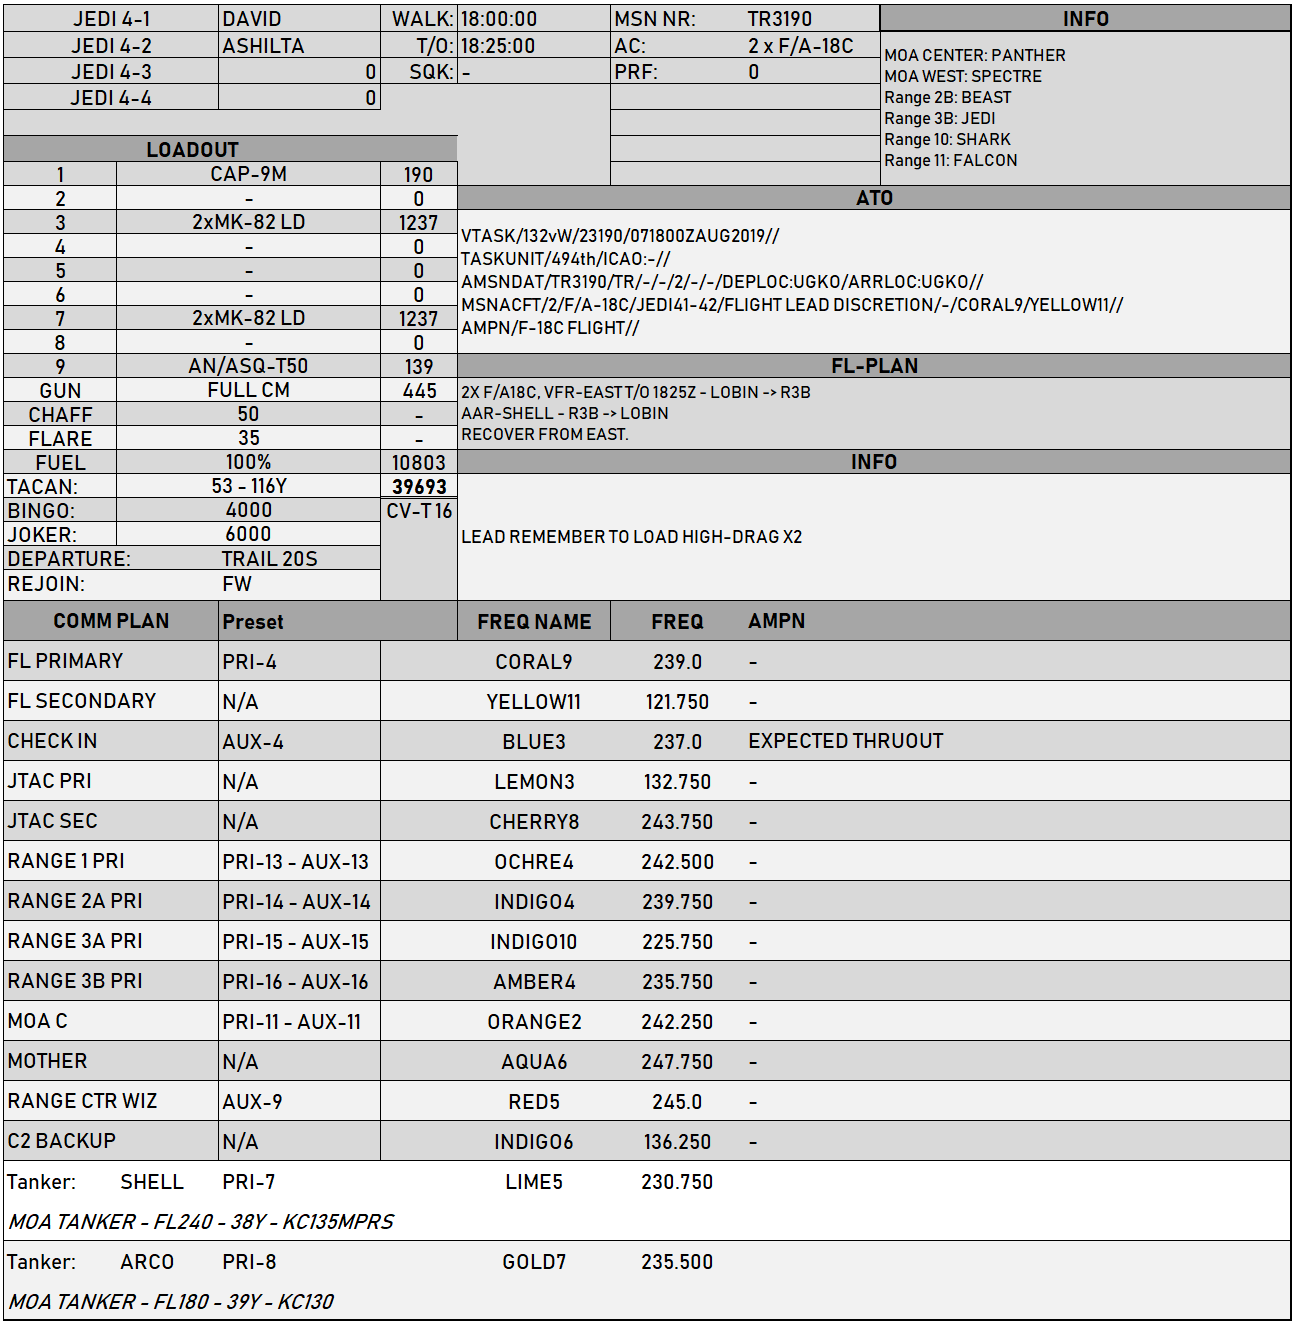
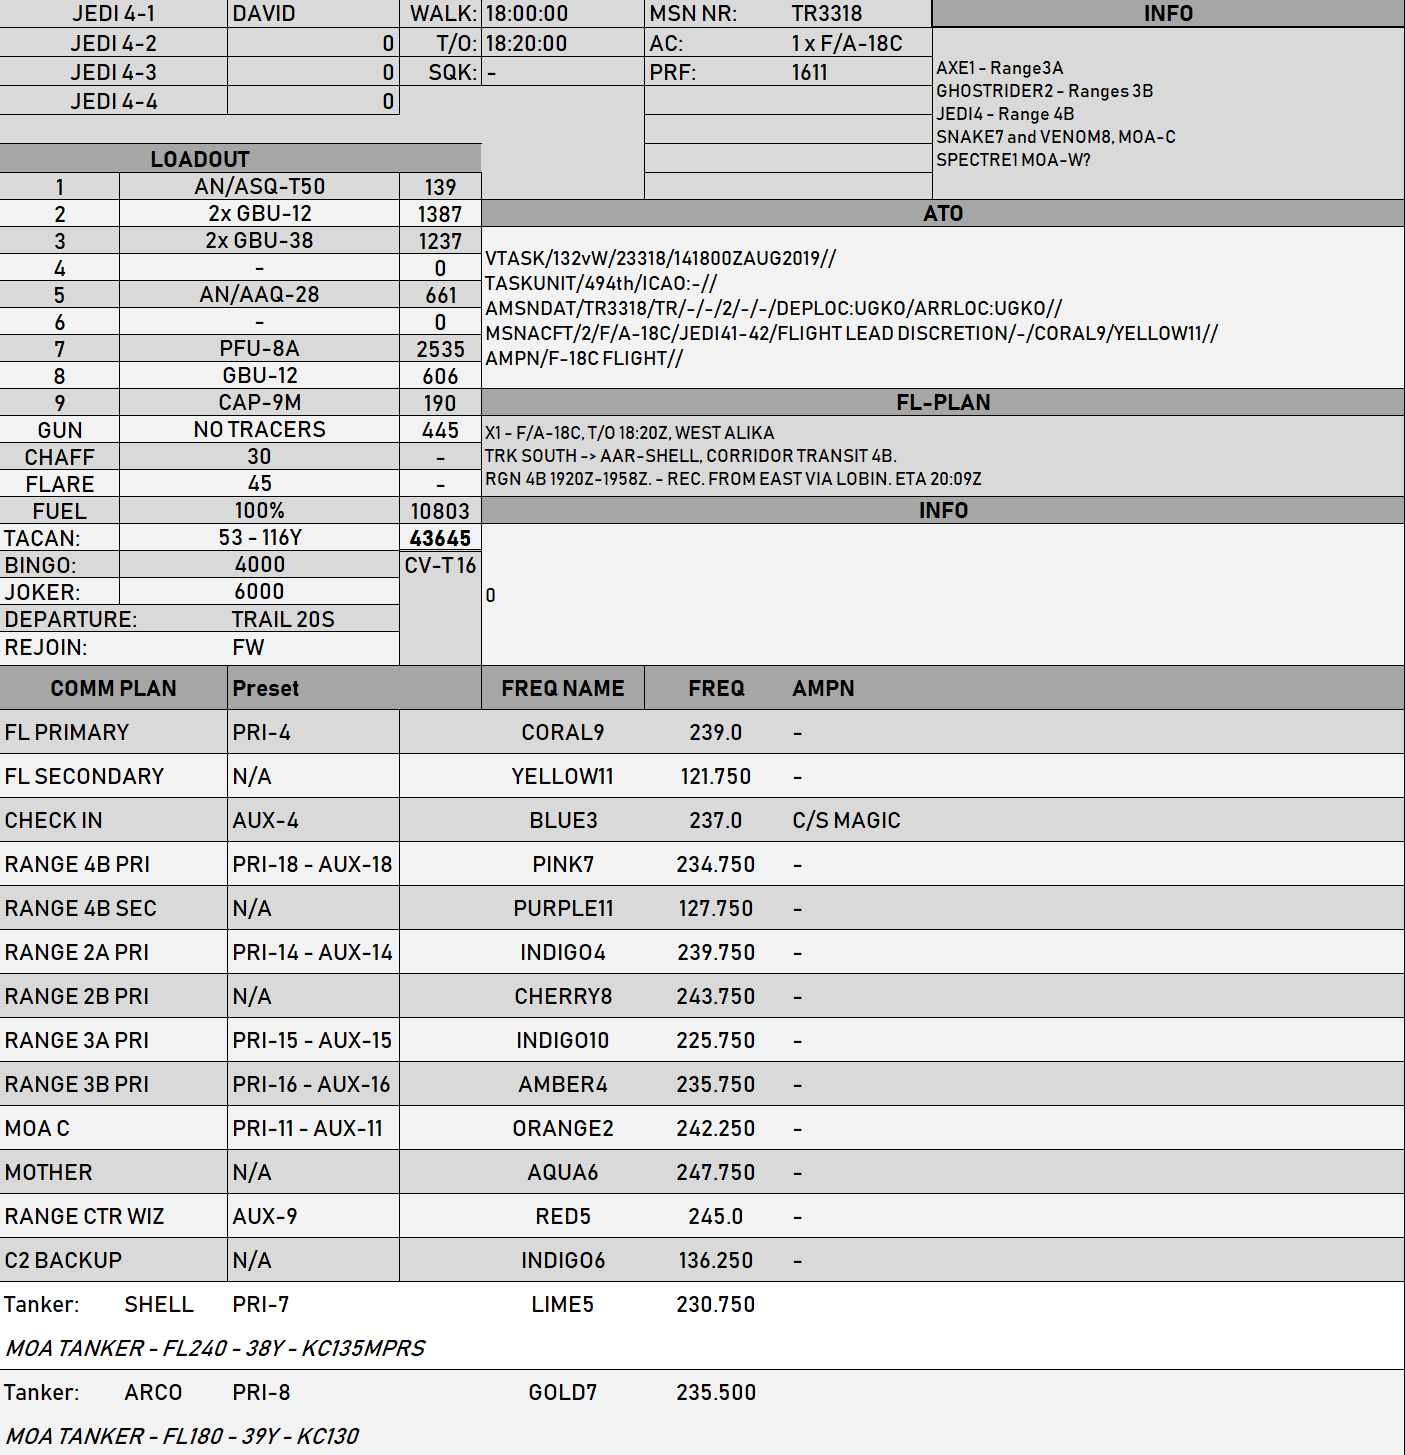
190814 JEDI 4

Changed region(s): [[0.0, 0.0, 1.0, 1.0], [0.3704, 0.9276, 0.5556, 0.9585]]

diff --git a/index.md b/index.md
@@ -2,86 +2,37 @@
 - | - | -
 [CV-OPs](/CVOPS/cvops.md) | [FLIP GULF](https://www.dropbox.com/s/sp91zf63rx0esao/FLIP_GULFR2_EC1.pdf?dl=0) | [FLIP CAUCASUS](https://www.dropbox.com/s/ppiqy9ba7i8h8op/FLIP_CAUR_EC1.pdf?dl=0)
 
-## JEDI 4 - TR3190
+## JEDI 4 - TR3318
 
 Flight Lead: DAVID  
-WM2: ASHILTA  
-
 TACAN:: 53 - 116Y  
 
 ## FLIGHTPLAN
-"2X F/A18C, VFR-EAST T/O 1825Z - LOBIN -> R3B
-AAR-SHELL - R3B -> LOBIN
-RECOVER FROM EAST."
+"X1 - F/A-18C, T/O 18:20Z, WEST ALIKA
+TRK SOUTH -> AAR-SHELL, CORRIDOR TRANSIT 4B.
+RGN 4B 1920Z-1958Z. - REC. FROM EAST VIA LOBIN. ETA 20:09Z"
 
 ## LOADOUT
 
 left | right
 ----- | -----
-S1 - CAP-9M | S9 - AN/ASQ-T50
-S2 - - | S8 - -
-S3 - 2xMK-82 LD | S7 - 2xMK-82 LD
+S1 - AN/ASQ-T50 | S9 - CAP-9M
+S2 - 2x GBU-12 | S8 - GBU-12
+S3 - 2x GBU-38 | S7 - PFU-8A
 S4 - - | S6 - -
-S5 - - | GUN - FULL CM
-CHAFF - 50 | FLARE - 35
-FUEL - 1 | WEIGHT: 39693
+S5 - AN/AAQ-28 | GUN - NO TRACERS
+CHAFF - 30 | FLARE - 45
+FUEL - 1 | WEIGHT: 43645
 
-
-## OBJECTIVE
-
-Objctive 1: Know the different strategic and counterland mission-types:
-(Strike, AI, GAI, SCAR, CAS, FAC(A), CSAR).
-
-Objective 2: Use correct FENCE as per SOP.
-
-Objective 3: Know and respect Targeting Contract: 
-(At no given time must both pilots be heads-down, unless deconflicted and in permissive environment).
-
-Objective 4: Able to give and receive 3-point attack brief.
-
-Objective 5: Know the difference between shooter-shooter and shooter-cover and when they can be used.
-
-Objective 6: Know how to set up a wheel .
-
-Objective 7: Understand the advantages and disadvantages of a popup-attack and be able to execute it.
-
-Objective 8: Able to set up and execute a level, low level attack using retarded bombs.
-
-
-### Lesson content
-This lesson is a special form of self-qualification.
-The lesson must be flown with another MQ pilot (MQ or above). MQ pilot will be Flight lead for trainee.
-Once all objctives are met, you must self-qualify this lesson.
-
-
-This flight should be divided in two parts:
-Part 1: Low threat.
-Focus is to conduct basic A-G tactics in a permissive environment: Recive 3-point attack brief, orbit in a wheel, simple talk-on. This first part is to prepare the trainee to conduct CAS and AR missions with a more dynamic flow.
-
-
-Part 2: High threat.
-The second part focuses on pre-planned attacks in a high threat environment to prepare for Strike, OCA attack and AI missions. The flight need to ingress low level to a IP, continue into the target to conduct coordinated attacks shooter-shooter.
 
 
 ## STEERPOINTS
 
 
 ![MDC1](MDC10.PNG)
-![MDC2](MDC20.PNG)
-![MDC3](MDC30.PNG)
-## TGT ELEV 3612 FT
-
+![MDC1](MDC20.PNG)
+![MDC1](MDC30.PNG)
 ![AO](E10.PNG)
-![ZED1](ZED_40HADB.PNG)
-
-![SATLOW](SATLOW.PNG)
-
-## WINGMAN
-![ZED1](ZED_30LALD.PNG)
-
-## LEAD
-![ZED1](ZED_10LALD.PNG)
-
 
 ## METAR: 
 
@@ -90,16 +41,25 @@ The second part focuses on pre-planned attacks in a high threat environment to p
 
 
 ## COMMS
+#### FL PRIMARY / PRI-4 / CORAL9 / 239.0 / AMPN:-
+#### FL SECONDARY / N/A / YELLOW11 / 121.750 / AMPN:-
+#### CHECK IN / AUX-4 / BLUE3 / 237.0 / AMPN:C/S MAGIC
+#### RANGE 4B PRI / PRI-18 - AUX-18 / PINK7 / 234.750 / AMPN:-
+#### RANGE 4B SEC / N/A / PURPLE11 / 127.750 / AMPN:-
+#### RANGE 2A PRI / PRI-14 - AUX-14 / INDIGO4 / 239.750 / AMPN:-
+#### RANGE 2B PRI / N/A / CHERRY8 / 243.750 / AMPN:-
+#### RANGE 3A PRI / PRI-15 - AUX-15 / INDIGO10 / 225.750 / AMPN:-
+#### RANGE 3B PRI / PRI-16 - AUX-16 / AMBER4 / 235.750 / AMPN:-
+#### MOA C / PRI-11 - AUX-11 / ORANGE2 / 242.250 / AMPN:-
+#### MOTHER / N/A / AQUA6 / 247.750 / AMPN:-
+#### RANGE CTR WIZ / AUX-9 / RED5 / 245.0 / AMPN:-
+#### C2 BACKUP / N/A / INDIGO6 / 136.250 / AMPN:-
 
-## SPINS
 
-### RAMROD
-
-## COMPLEXITY
+## TASK
 
 
-
-![GND](/FLIPS/UGKO_GND.png)  
+![GND](/FLIPS/OMAM_GND.png)  
 [FLIP GULF](https://www.dropbox.com/s/sp91zf63rx0esao/FLIP_GULFR2_EC1.pdf?dl=0)
 [FLIP CAUCASUS](https://www.dropbox.com/s/ppiqy9ba7i8h8op/FLIP_CAUR_EC1.pdf?dl=0)
 
